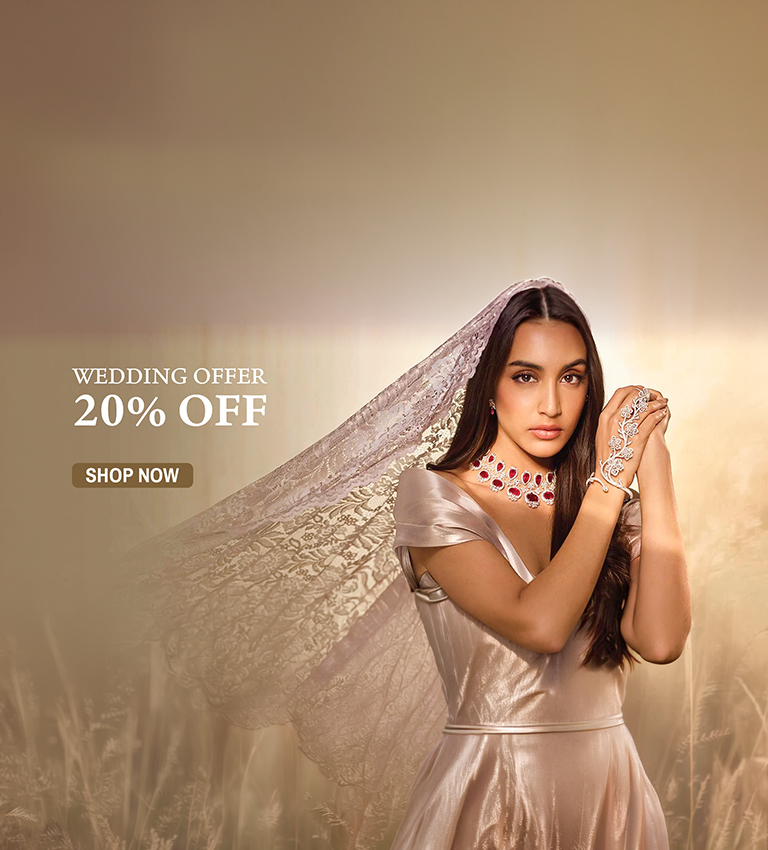
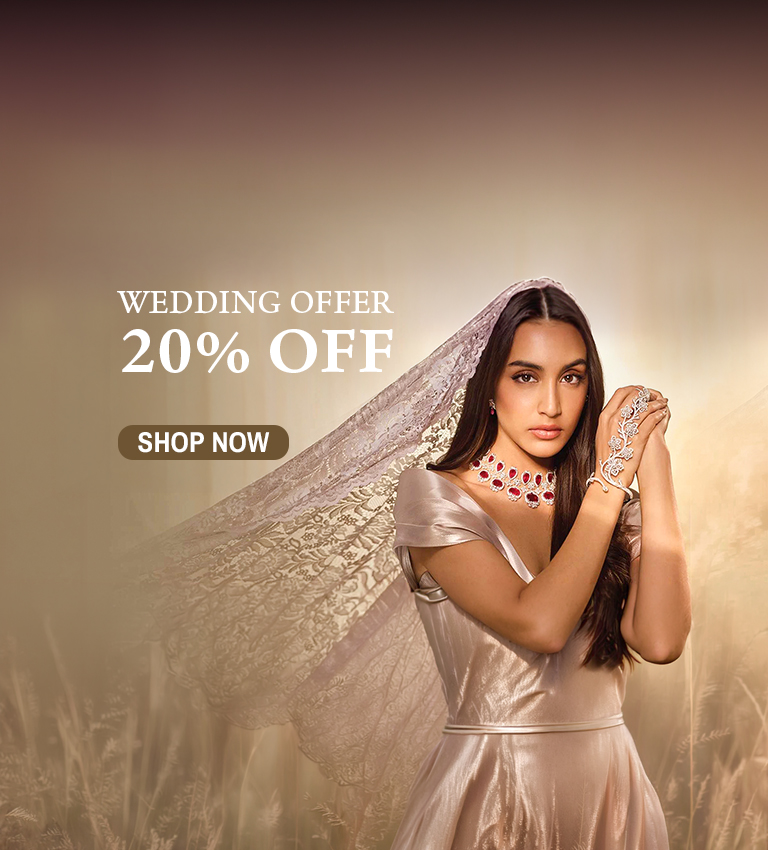
mobilebannerupdate

Changed region(s): [[0.0, 0.0, 1.0, 0.2141], [0.0938, 0.3365, 0.5312, 0.5812], [0.8438, 0.3671, 0.9688, 0.4588]]

diff --git a/src/data/content.js b/src/data/content.js
@@ -11,13 +11,13 @@ export const bannerSlides = [
   {
     id: 2,
     desktopImage: '/Banner-2.jpeg',
-    mobileImage:  U('1490481651871-ab68de25d43d', 768, 900),
+    mobileImage:   '/Banner2MOB.jpeg',
     link:         '/bridal',
   },
   {
     id: 3,
     desktopImage: '/Banner-3.jpeg',
-    mobileImage:  U('1524504388940-b1c1722653e8', 768, 900),
+    mobileImage:  '/Banner3MOB.jpeg',
     link:         '/occasion-wear',
   },
 ];
